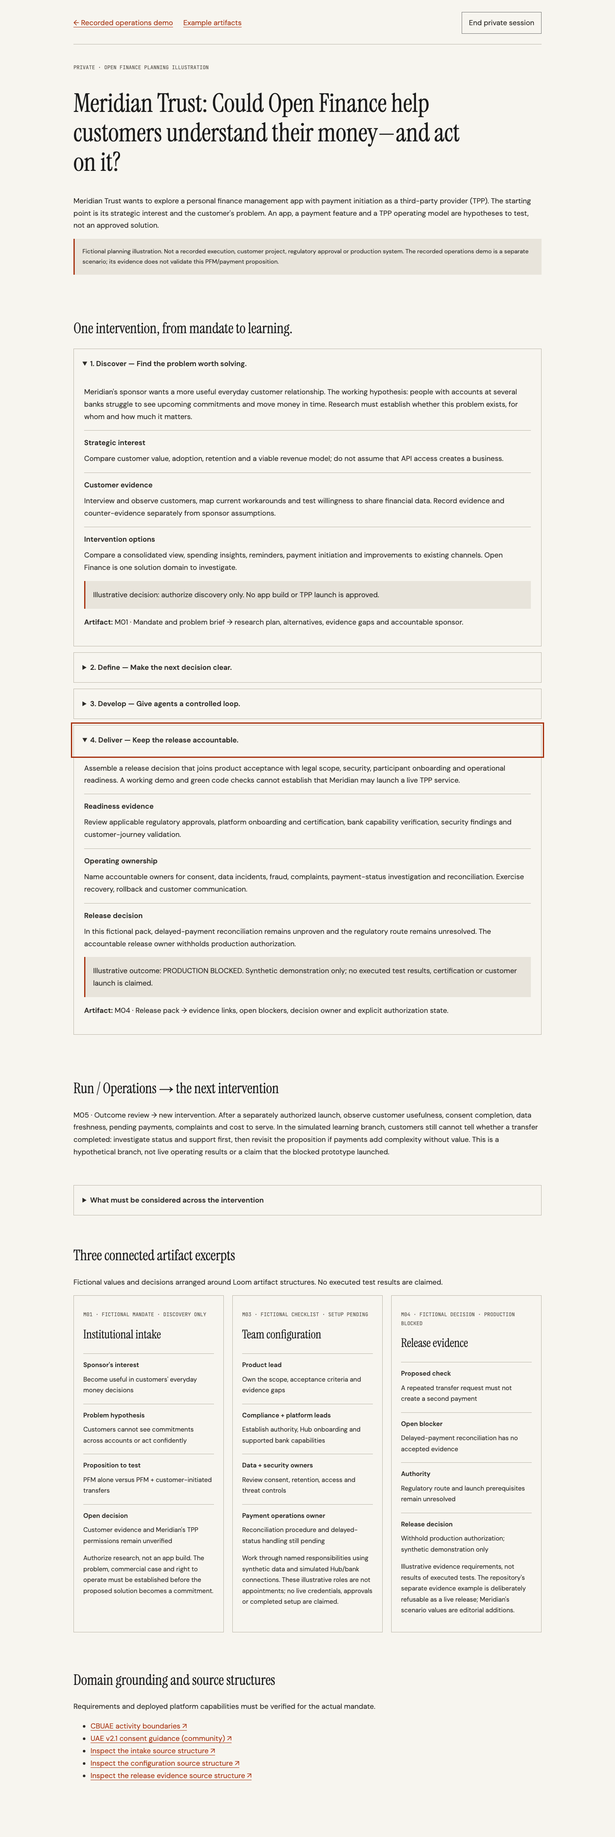
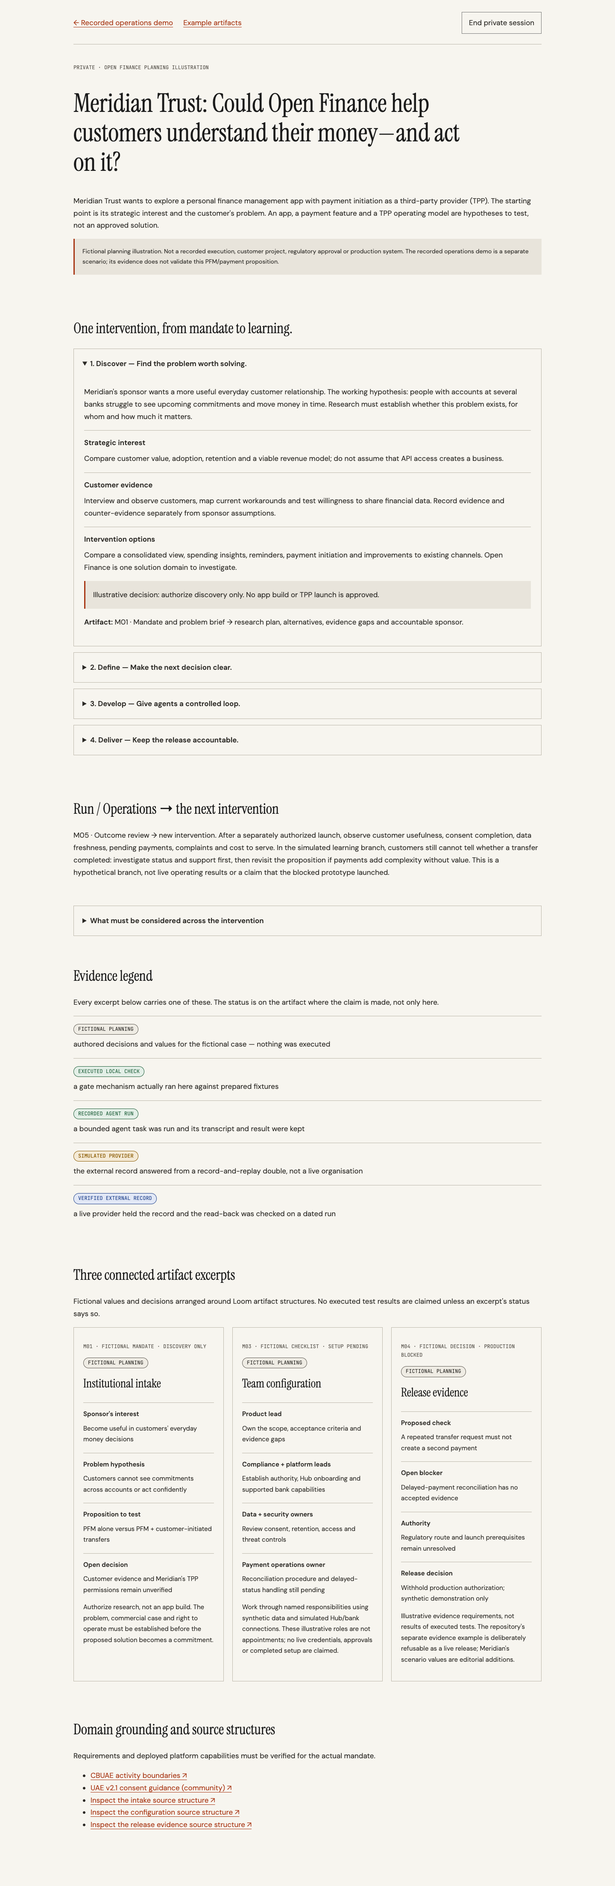
Regenerate package from ai-dlc 25be82e (#3)
scripts/regenerate.mjs --ai-dlc ../ai-dlc --apply, over base package 4bc4593 with the
unchanged private scenario. sync-check reported the generator had drifted: ai-dlc #74 (the
founder demo) taught customer-demo-illustration.mjs the five-status evidence legend
(fictional planning · executed local check · recorded agent run · simulated provider ·
verified external record) and an optional presenter block. The regenerated
illustration.html and illustration.css carry the legend; the scenario itself is unchanged.

release.json: generator_sha256 2ff0cdff…, illustration.ai_dlc_commit 25be82e,
recorded_evidence_unchanged true, source_commit 36ea325 (the recorded-evidence base; it
does not move). sync-check — OK after regeneration.

Gateway verified locally on :8090 with a throwaway DEMO_PASSWORD and DEMO_HOSTS set in the
shell only: anonymous /, /index.html, /illustration.html and every dist/evidence/* path
303 → /login with Cache-Control: no-store and X-Robots-Tag: noindex; login without an
Origin header 403, wrong password 401, right password 303 with an HttpOnly Secure
SameSite=Strict __Host-loom cookie; authenticated /index.html, /illustration.html and
/evidence/bundle.json 200; private-source/ 404 when authenticated (303 to login when not);
unknown Host 403; logout clears the session. Captures at 1440 and 390 in
private-source/review/ (no horizontal overflow, PRODUCTION BLOCKED text present, legend
rendered). server.mjs and the Dockerfile untouched.

Changed region(s): [[0.125, 0.0312, 0.875, 0.9037], [0.125, 0.9037, 0.4688, 0.966]]

diff --git a/dist/illustration.html b/dist/illustration.html
@@ -1,1 +1,1 @@
-<!doctype html><html lang="en"><head><meta charset="utf-8"><meta name="viewport" content="width=device-width,initial-scale=1"><meta name="robots" content="noindex,nofollow,noarchive"><title>Meridian Trust — private Loom illustration</title><link rel="stylesheet" href="/fonts/fonts.css"><link rel="stylesheet" href="/illustration.css"></head><body><main class="illustration"><nav aria-label="Demo sections"><a href="/">← Recorded operations demo</a><a href="#artifacts">Example artifacts</a><form method="post" action="/logout"><button>End private session</button></form></nav><header><p class="eyebrow">Private · Open Finance planning illustration</p><h1>Meridian Trust: Could Open Finance help customers understand their money—and act on it?</h1><p>Meridian Trust wants to explore a personal finance management app with payment initiation as a third-party provider (TPP). The starting point is its strategic interest and the customer&#39;s problem. An app, a payment feature and a TPP operating model are hypotheses to test, not an approved solution.</p><p class="boundary">Fictional planning illustration. Not a recorded execution, customer project, regulatory approval or production system. The recorded operations demo is a separate scenario; its evidence does not validate this PFM/payment proposition.</p></header><section aria-labelledby="cycle"><h2 id="cycle">One intervention, from mandate to learning.</h2><details open><summary>1. Discover — Find the problem worth solving.</summary><div class="detail"><p>Meridian&#39;s sponsor wants a more useful everyday customer relationship. The working hypothesis: people with accounts at several banks struggle to see upcoming commitments and move money in time. Research must establish whether this problem exists, for whom and how much it matters.</p><dl><div><dt>Strategic interest</dt><dd>Compare customer value, adoption, retention and a viable revenue model; do not assume that API access creates a business.</dd></div><div><dt>Customer evidence</dt><dd>Interview and observe customers, map current workarounds and test willingness to share financial data. Record evidence and counter-evidence separately from sponsor assumptions.</dd></div><div><dt>Intervention options</dt><dd>Compare a consolidated view, spending insights, reminders, payment initiation and improvements to existing channels. Open Finance is one solution domain to investigate.</dd></div></dl><p class="decision">Illustrative decision: authorize discovery only. No app build or TPP launch is approved.</p><p><strong>Artifact:</strong> M01 · Mandate and problem brief → research plan, alternatives, evidence gaps and accountable sponsor.</p></div></details><details><summary>2. Define — Make the next decision clear.</summary><div class="detail"><p>Use a disposable prototype to test whether seeing finances and initiating a transfer belong in the same journey. Compare PFM alone with PFM plus customer-initiated payments; narrow the scope only when the customer, commercial and feasibility evidence supports it.</p><dl><div><dt>Proposition and economics</dt><dd>Test comprehension and usefulness. Model acquisition, consent completion, data refresh, platform charges and support costs; leave unverified prices and demand as open inputs.</dd></div><div><dt>TPP feasibility</dt><dd>Establish Meridian&#39;s legal entity, jurisdiction and existing permissions. Determine the applicable licensing or approval route, permitted activities, onboarding, certification and participating-bank coverage.</dd></div><div><dt>Bounded hypothesis</dt><dd>For the worked branch, explore an account overview and a customer-initiated domestic transfer. Defer automated sweeps, product recommendations and additional payment types pending separate assessment.</dd></div></dl><p class="decision">Illustrative decision: proceed to a synthetic prototype, with regulatory scope unresolved. Narrow, investigate or stop if the evidence does not support the proposition.</p><p><strong>Artifact:</strong> M02 · Reviewed discovery hand-off → prototype, business case, scope, risks, success measures and stop conditions.</p></div></details><details><summary>3. Develop — Give agents a controlled loop.</summary><div class="detail"><p>Turn the bounded proposition into reviewable increments: connect accounts, explain freshness and spending, then initiate a transfer with a clear outcome. The prototype uses synthetic accounts and a simulated API Hub and bank; it has no production connectivity.</p><dl><div><dt>Consent and data</dt><dd>Separate account-data permissions from payment authorization. Design revocation, expiry, minimum data access, freshness indicators, retention and deletion; review insight accuracy and misleading financial recommendations.</dd></div><div><dt>Payment journey</dt><dd>Model Meridian TPP → API Hub → bank, with the bank executing the payment. Include payee verification, customer authorization, repeated submissions, delayed responses and reconciliation.</dd></div><div><dt>Controlled implementation</dt><dd>Bind specifications to acceptance tests and accountable reviewers. Assess security, fraud, privacy and outsourced services; test rejected consent, stale data, unknown payment outcomes and support escalation.</dd></div></dl><p class="decision">Illustrative decision: do not treat a timeout as a failed payment or encourage an unchecked retry. Resolve the existing payment outcome first.</p><p><strong>Artifact:</strong> M03 · Delivery evidence → versioned contracts, synthetic test cases, reviewed changes and unresolved controls.</p></div></details><details><summary>4. Deliver — Keep the release accountable.</summary><div class="detail"><p>Assemble a release decision that joins product acceptance with legal scope, security, participant onboarding and operational readiness. A working demo and green code checks cannot establish that Meridian may launch a live TPP service.</p><dl><div><dt>Readiness evidence</dt><dd>Review applicable regulatory approvals, platform onboarding and certification, bank capability verification, security findings and customer-journey validation.</dd></div><div><dt>Operating ownership</dt><dd>Name accountable owners for consent, data incidents, fraud, complaints, payment-status investigation and reconciliation. Exercise recovery, rollback and customer communication.</dd></div><div><dt>Release decision</dt><dd>In this fictional pack, delayed-payment reconciliation remains unproven and the regulatory route remains unresolved. The accountable release owner withholds production authorization.</dd></div></dl><p class="decision">Illustrative outcome: PRODUCTION BLOCKED. Synthetic demonstration only; no executed test results, certification or customer launch is claimed.</p><p><strong>Artifact:</strong> M04 · Release pack → evidence links, open blockers, decision owner and explicit authorization state.</p></div></details></section><section><h2>Run / Operations → the next intervention</h2><p>M05 · Outcome review → new intervention. After a separately authorized launch, observe customer usefulness, consent completion, data freshness, pending payments, complaints and cost to serve. In the simulated learning branch, customers still cannot tell whether a transfer completed: investigate status and support first, then revisit the proposition if payments add complexity without value. This is a hypothetical branch, not live operating results or a claim that the blocked prototype launched.</p></section><details><summary>What must be considered across the intervention</summary><div class="detail"><dl><div><dt>Authority and responsibility</dt><dd>Confirm legal status, applicable permissions, governance, insurance and partner responsibilities. Assess the boundaries around financial advice and customer funds; the example assumes neither fund custody nor automatic authority to operate.</dd></div><div><dt>Customer value and economics</dt><dd>Validate the target segment, customer problem, revenue assumptions, costs and distribution. Set measurable outcomes and explicit reasons to stop before committing to a build.</dd></div><div><dt>Consent and information</dt><dd>Specify purposes, data permissions, consent management, withdrawal, freshness, categorization quality, privacy, retention and deletion. Confirm customer communications and accessibility needs.</dd></div><div><dt>Platform and payments</dt><dd>Verify deployed standards and bank capabilities. Plan Trust Framework registration, secure communication and credentials, Hub-mediated access, payee checks, payment status, duplicate prevention and reconciliation.</dd></div><div><dt>Assurance and launch</dt><dd>Establish threat and fraud controls, independent review, functional and customer-experience certification, security evidence and live-proving prerequisites appropriate to the approved scope.</dd></div><div><dt>Operations and learning</dt><dd>Define monitoring, incident and dispute handling, complaints, recovery, supplier responsibilities and change management. Feed customer outcomes and control failures back into the mandate.</dd></div></dl></div></details><section id="artifacts"><h2>Three connected artifact excerpts</h2><p>Fictional values and decisions arranged around Loom artifact structures. No executed test results are claimed.</p><div class="artifacts"><article><p class="eyebrow">M01 · Fictional mandate · discovery only</p><h3>Institutional intake</h3><dl><div><dt>Sponsor&#39;s interest</dt><dd>Become useful in customers&#39; everyday money decisions</dd></div><div><dt>Problem hypothesis</dt><dd>Customers cannot see commitments across accounts or act confidently</dd></div><div><dt>Proposition to test</dt><dd>PFM alone versus PFM + customer-initiated transfers</dd></div><div><dt>Open decision</dt><dd>Customer evidence and Meridian&#39;s TPP permissions remain unverified</dd></div></dl><p>Authorize research, not an app build. The problem, commercial case and right to operate must be established before the proposed solution becomes a commitment.</p></article><article><p class="eyebrow">M03 · Fictional checklist · setup pending</p><h3>Team configuration</h3><dl><div><dt>Product lead</dt><dd>Own the scope, acceptance criteria and evidence gaps</dd></div><div><dt>Compliance + platform leads</dt><dd>Establish authority, Hub onboarding and supported bank capabilities</dd></div><div><dt>Data + security owners</dt><dd>Review consent, retention, access and threat controls</dd></div><div><dt>Payment operations owner</dt><dd>Reconciliation procedure and delayed-status handling still pending</dd></div></dl><p>Work through named responsibilities using synthetic data and simulated Hub/bank connections. These illustrative roles are not appointments; no live credentials, approvals or completed setup are claimed.</p></article><article><p class="eyebrow">M04 · Fictional decision · production blocked</p><h3>Release evidence</h3><dl><div><dt>Proposed check</dt><dd>A repeated transfer request must not create a second payment</dd></div><div><dt>Open blocker</dt><dd>Delayed-payment reconciliation has no accepted evidence</dd></div><div><dt>Authority</dt><dd>Regulatory route and launch prerequisites remain unresolved</dd></div><div><dt>Release decision</dt><dd>Withhold production authorization; synthetic demonstration only</dd></div></dl><p>Illustrative evidence requirements, not results of executed tests. The repository&#39;s separate evidence example is deliberately refusable as a live release; Meridian&#39;s scenario values are editorial additions.</p></article></div></section><section><h2>Domain grounding and source structures</h2><p>Requirements and deployed platform capabilities must be verified for the actual mandate.</p><ul><li><a href="https://rulebook.centralbank.ae/en/rulebook/article-4-limitations-0" target="_blank" rel="noopener noreferrer">CBUAE activity boundaries ↗</a></li><li><a href="https://www.nebras-open-finance.com/tech/tpp-standards/v2.1/consent" target="_blank" rel="noopener noreferrer">UAE v2.1 consent guidance (community) ↗</a></li><li><a href="https://github.com/middleleap/ai-dlc/tree/063b42029066db2c0b0f44cbd9aa057894d7151d/plugins/middleleap-loom/skills/loom-adopt/harness/intake/handoff.md" target="_blank" rel="noopener noreferrer">Inspect the intake source structure ↗</a></li><li><a href="https://github.com/middleleap/ai-dlc/tree/063b42029066db2c0b0f44cbd9aa057894d7151d/plugins/middleleap-loom/skills/loom-adopt/harness/core/configuration-tasks.json" target="_blank" rel="noopener noreferrer">Inspect the configuration source structure ↗</a></li><li><a href="https://github.com/middleleap/ai-dlc/tree/063b42029066db2c0b0f44cbd9aa057894d7151d/plugins/middleleap-loom/skills/loom-adopt/harness/evidence-example/README.md" target="_blank" rel="noopener noreferrer">Inspect the release evidence source structure ↗</a></li></ul></section></main></body></html>
+<!doctype html><html lang="en"><head><meta charset="utf-8"><meta name="viewport" content="width=device-width,initial-scale=1"><meta name="robots" content="noindex,nofollow,noarchive"><title>Meridian Trust — private Loom illustration</title><link rel="stylesheet" href="/fonts/fonts.css"><link rel="stylesheet" href="/illustration.css"></head><body><main class="illustration"><nav aria-label="Demo sections"><a href="/">← Recorded operations demo</a><a href="#artifacts">Example artifacts</a><form method="post" action="/logout"><button>End private session</button></form></nav><header><p class="eyebrow">Private · Open Finance planning illustration</p><h1>Meridian Trust: Could Open Finance help customers understand their money—and act on it?</h1><p>Meridian Trust wants to explore a personal finance management app with payment initiation as a third-party provider (TPP). The starting point is its strategic interest and the customer&#39;s problem. An app, a payment feature and a TPP operating model are hypotheses to test, not an approved solution.</p><p class="boundary">Fictional planning illustration. Not a recorded execution, customer project, regulatory approval or production system. The recorded operations demo is a separate scenario; its evidence does not validate this PFM/payment proposition.</p></header><section aria-labelledby="cycle"><h2 id="cycle">One intervention, from mandate to learning.</h2><details open><summary>1. Discover — Find the problem worth solving.</summary><div class="detail"><p>Meridian&#39;s sponsor wants a more useful everyday customer relationship. The working hypothesis: people with accounts at several banks struggle to see upcoming commitments and move money in time. Research must establish whether this problem exists, for whom and how much it matters.</p><dl><div><dt>Strategic interest</dt><dd>Compare customer value, adoption, retention and a viable revenue model; do not assume that API access creates a business.</dd></div><div><dt>Customer evidence</dt><dd>Interview and observe customers, map current workarounds and test willingness to share financial data. Record evidence and counter-evidence separately from sponsor assumptions.</dd></div><div><dt>Intervention options</dt><dd>Compare a consolidated view, spending insights, reminders, payment initiation and improvements to existing channels. Open Finance is one solution domain to investigate.</dd></div></dl><p class="decision">Illustrative decision: authorize discovery only. No app build or TPP launch is approved.</p><p><strong>Artifact:</strong> M01 · Mandate and problem brief → research plan, alternatives, evidence gaps and accountable sponsor.</p></div></details><details><summary>2. Define — Make the next decision clear.</summary><div class="detail"><p>Use a disposable prototype to test whether seeing finances and initiating a transfer belong in the same journey. Compare PFM alone with PFM plus customer-initiated payments; narrow the scope only when the customer, commercial and feasibility evidence supports it.</p><dl><div><dt>Proposition and economics</dt><dd>Test comprehension and usefulness. Model acquisition, consent completion, data refresh, platform charges and support costs; leave unverified prices and demand as open inputs.</dd></div><div><dt>TPP feasibility</dt><dd>Establish Meridian&#39;s legal entity, jurisdiction and existing permissions. Determine the applicable licensing or approval route, permitted activities, onboarding, certification and participating-bank coverage.</dd></div><div><dt>Bounded hypothesis</dt><dd>For the worked branch, explore an account overview and a customer-initiated domestic transfer. Defer automated sweeps, product recommendations and additional payment types pending separate assessment.</dd></div></dl><p class="decision">Illustrative decision: proceed to a synthetic prototype, with regulatory scope unresolved. Narrow, investigate or stop if the evidence does not support the proposition.</p><p><strong>Artifact:</strong> M02 · Reviewed discovery hand-off → prototype, business case, scope, risks, success measures and stop conditions.</p></div></details><details><summary>3. Develop — Give agents a controlled loop.</summary><div class="detail"><p>Turn the bounded proposition into reviewable increments: connect accounts, explain freshness and spending, then initiate a transfer with a clear outcome. The prototype uses synthetic accounts and a simulated API Hub and bank; it has no production connectivity.</p><dl><div><dt>Consent and data</dt><dd>Separate account-data permissions from payment authorization. Design revocation, expiry, minimum data access, freshness indicators, retention and deletion; review insight accuracy and misleading financial recommendations.</dd></div><div><dt>Payment journey</dt><dd>Model Meridian TPP → API Hub → bank, with the bank executing the payment. Include payee verification, customer authorization, repeated submissions, delayed responses and reconciliation.</dd></div><div><dt>Controlled implementation</dt><dd>Bind specifications to acceptance tests and accountable reviewers. Assess security, fraud, privacy and outsourced services; test rejected consent, stale data, unknown payment outcomes and support escalation.</dd></div></dl><p class="decision">Illustrative decision: do not treat a timeout as a failed payment or encourage an unchecked retry. Resolve the existing payment outcome first.</p><p><strong>Artifact:</strong> M03 · Delivery evidence → versioned contracts, synthetic test cases, reviewed changes and unresolved controls.</p></div></details><details><summary>4. Deliver — Keep the release accountable.</summary><div class="detail"><p>Assemble a release decision that joins product acceptance with legal scope, security, participant onboarding and operational readiness. A working demo and green code checks cannot establish that Meridian may launch a live TPP service.</p><dl><div><dt>Readiness evidence</dt><dd>Review applicable regulatory approvals, platform onboarding and certification, bank capability verification, security findings and customer-journey validation.</dd></div><div><dt>Operating ownership</dt><dd>Name accountable owners for consent, data incidents, fraud, complaints, payment-status investigation and reconciliation. Exercise recovery, rollback and customer communication.</dd></div><div><dt>Release decision</dt><dd>In this fictional pack, delayed-payment reconciliation remains unproven and the regulatory route remains unresolved. The accountable release owner withholds production authorization.</dd></div></dl><p class="decision">Illustrative outcome: PRODUCTION BLOCKED. Synthetic demonstration only; no executed test results, certification or customer launch is claimed.</p><p><strong>Artifact:</strong> M04 · Release pack → evidence links, open blockers, decision owner and explicit authorization state.</p></div></details></section><section><h2>Run / Operations → the next intervention</h2><p>M05 · Outcome review → new intervention. After a separately authorized launch, observe customer usefulness, consent completion, data freshness, pending payments, complaints and cost to serve. In the simulated learning branch, customers still cannot tell whether a transfer completed: investigate status and support first, then revisit the proposition if payments add complexity without value. This is a hypothetical branch, not live operating results or a claim that the blocked prototype launched.</p></section><details><summary>What must be considered across the intervention</summary><div class="detail"><dl><div><dt>Authority and responsibility</dt><dd>Confirm legal status, applicable permissions, governance, insurance and partner responsibilities. Assess the boundaries around financial advice and customer funds; the example assumes neither fund custody nor automatic authority to operate.</dd></div><div><dt>Customer value and economics</dt><dd>Validate the target segment, customer problem, revenue assumptions, costs and distribution. Set measurable outcomes and explicit reasons to stop before committing to a build.</dd></div><div><dt>Consent and information</dt><dd>Specify purposes, data permissions, consent management, withdrawal, freshness, categorization quality, privacy, retention and deletion. Confirm customer communications and accessibility needs.</dd></div><div><dt>Platform and payments</dt><dd>Verify deployed standards and bank capabilities. Plan Trust Framework registration, secure communication and credentials, Hub-mediated access, payee checks, payment status, duplicate prevention and reconciliation.</dd></div><div><dt>Assurance and launch</dt><dd>Establish threat and fraud controls, independent review, functional and customer-experience certification, security evidence and live-proving prerequisites appropriate to the approved scope.</dd></div><div><dt>Operations and learning</dt><dd>Define monitoring, incident and dispute handling, complaints, recovery, supplier responsibilities and change management. Feed customer outcomes and control failures back into the mandate.</dd></div></dl></div></details><section id="legend" aria-labelledby="legend-h"><h2 id="legend-h">Evidence legend</h2><p>Every excerpt below carries one of these. The status is on the artifact where the claim is made, not only here.</p><dl class="legend"><div><dt><span class="chip" data-status="fictional planning">fictional planning</span></dt><dd>authored decisions and values for the fictional case — nothing was executed</dd></div><div><dt><span class="chip" data-status="executed local check">executed local check</span></dt><dd>a gate mechanism actually ran here against prepared fixtures</dd></div><div><dt><span class="chip" data-status="recorded agent run">recorded agent run</span></dt><dd>a bounded agent task was run and its transcript and result were kept</dd></div><div><dt><span class="chip" data-status="simulated provider">simulated provider</span></dt><dd>the external record answered from a record-and-replay double, not a live organisation</dd></div><div><dt><span class="chip" data-status="verified external record">verified external record</span></dt><dd>a live provider held the record and the read-back was checked on a dated run</dd></div></dl></section><section id="artifacts"><h2>Three connected artifact excerpts</h2><p>Fictional values and decisions arranged around Loom artifact structures. No executed test results are claimed unless an excerpt's status says so.</p><div class="artifacts"><article><p class="eyebrow">M01 · Fictional mandate · discovery only</p><p><span class="chip" data-status="fictional planning">fictional planning</span></p><h3>Institutional intake</h3><dl><div><dt>Sponsor&#39;s interest</dt><dd>Become useful in customers&#39; everyday money decisions</dd></div><div><dt>Problem hypothesis</dt><dd>Customers cannot see commitments across accounts or act confidently</dd></div><div><dt>Proposition to test</dt><dd>PFM alone versus PFM + customer-initiated transfers</dd></div><div><dt>Open decision</dt><dd>Customer evidence and Meridian&#39;s TPP permissions remain unverified</dd></div></dl><p>Authorize research, not an app build. The problem, commercial case and right to operate must be established before the proposed solution becomes a commitment.</p></article><article><p class="eyebrow">M03 · Fictional checklist · setup pending</p><p><span class="chip" data-status="fictional planning">fictional planning</span></p><h3>Team configuration</h3><dl><div><dt>Product lead</dt><dd>Own the scope, acceptance criteria and evidence gaps</dd></div><div><dt>Compliance + platform leads</dt><dd>Establish authority, Hub onboarding and supported bank capabilities</dd></div><div><dt>Data + security owners</dt><dd>Review consent, retention, access and threat controls</dd></div><div><dt>Payment operations owner</dt><dd>Reconciliation procedure and delayed-status handling still pending</dd></div></dl><p>Work through named responsibilities using synthetic data and simulated Hub/bank connections. These illustrative roles are not appointments; no live credentials, approvals or completed setup are claimed.</p></article><article><p class="eyebrow">M04 · Fictional decision · production blocked</p><p><span class="chip" data-status="fictional planning">fictional planning</span></p><h3>Release evidence</h3><dl><div><dt>Proposed check</dt><dd>A repeated transfer request must not create a second payment</dd></div><div><dt>Open blocker</dt><dd>Delayed-payment reconciliation has no accepted evidence</dd></div><div><dt>Authority</dt><dd>Regulatory route and launch prerequisites remain unresolved</dd></div><div><dt>Release decision</dt><dd>Withhold production authorization; synthetic demonstration only</dd></div></dl><p>Illustrative evidence requirements, not results of executed tests. The repository&#39;s separate evidence example is deliberately refusable as a live release; Meridian&#39;s scenario values are editorial additions.</p></article></div></section><section><h2>Domain grounding and source structures</h2><p>Requirements and deployed platform capabilities must be verified for the actual mandate.</p><ul><li><a href="https://rulebook.centralbank.ae/en/rulebook/article-4-limitations-0" target="_blank" rel="noopener noreferrer">CBUAE activity boundaries ↗</a></li><li><a href="https://www.nebras-open-finance.com/tech/tpp-standards/v2.1/consent" target="_blank" rel="noopener noreferrer">UAE v2.1 consent guidance (community) ↗</a></li><li><a href="https://github.com/middleleap/ai-dlc/tree/063b42029066db2c0b0f44cbd9aa057894d7151d/plugins/middleleap-loom/skills/loom-adopt/harness/intake/handoff.md" target="_blank" rel="noopener noreferrer">Inspect the intake source structure ↗</a></li><li><a href="https://github.com/middleleap/ai-dlc/tree/063b42029066db2c0b0f44cbd9aa057894d7151d/plugins/middleleap-loom/skills/loom-adopt/harness/core/configuration-tasks.json" target="_blank" rel="noopener noreferrer">Inspect the configuration source structure ↗</a></li><li><a href="https://github.com/middleleap/ai-dlc/tree/063b42029066db2c0b0f44cbd9aa057894d7151d/plugins/middleleap-loom/skills/loom-adopt/harness/evidence-example/README.md" target="_blank" rel="noopener noreferrer">Inspect the release evidence source structure ↗</a></li></ul></section></main></body></html>

diff --git a/dist/illustration.css b/dist/illustration.css
@@ -1,1 +1,1 @@
-*{box-sizing:border-box}body{margin:0;background:#f7f5ef;color:#2b2925;font:17px/1.7 'DM Sans',sans-serif}.illustration{max-width:1160px;margin:auto;padding:28px 32px 80px}nav{display:flex;gap:24px;align-items:center;flex-wrap:wrap;border-bottom:1px solid #bcb7aa;padding-bottom:24px}nav form{margin-left:auto}a{color:#a83614;text-underline-offset:4px}button{font:inherit;padding:10px 16px;background:transparent;border:1px solid #777;color:inherit;cursor:pointer}h1,h2,h3{font-family:'Instrument Serif',Georgia,serif;font-weight:400;line-height:1.15;color:#1b1b1b}h1{font-size:clamp(36px,5vw,60px);max-width:950px}h2{font-size:34px}h3{font-size:28px}header,section{padding:32px 0}.eyebrow{font:12px/1.7 'JetBrains Mono',monospace;text-transform:uppercase;color:#5f5b54}.boundary,.decision{border-left:3px solid #a83614;padding:18px;background:#e8e4db}.boundary{font-size:14px}details{border:1px solid #bcb7aa;margin:14px 0}summary{padding:20px;cursor:pointer;font-weight:600}.detail{padding:0 24px 24px}dl{display:grid;gap:18px}dl>div{border-top:1px solid #bcb7aa;padding-top:14px}dt{font-weight:600}dd{margin:8px 0 0}.artifacts{display:grid;grid-template-columns:repeat(3,minmax(0,1fr));gap:20px}.artifacts article{border:1px solid #bcb7aa;padding:22px;font-size:15px}.artifacts h3{margin-top:20px}a:focus-visible,button:focus-visible,summary:focus-visible{outline:3px solid #a83614;outline-offset:4px}@media(max-width:760px){.illustration{padding:20px}.artifacts{grid-template-columns:1fr}nav form{margin-left:0}.detail{padding:0 18px 18px}summary{padding:18px}}
+*{box-sizing:border-box}body{margin:0;background:#f7f5ef;color:#2b2925;font:17px/1.7 'DM Sans',sans-serif}.illustration{max-width:1160px;margin:auto;padding:28px 32px 80px}nav{display:flex;gap:24px;align-items:center;flex-wrap:wrap;border-bottom:1px solid #bcb7aa;padding-bottom:24px}nav form{margin-left:auto}a{color:#a83614;text-underline-offset:4px}button{font:inherit;padding:10px 16px;background:transparent;border:1px solid #777;color:inherit;cursor:pointer}h1,h2,h3{font-family:'Instrument Serif',Georgia,serif;font-weight:400;line-height:1.15;color:#1b1b1b}h1{font-size:clamp(36px,5vw,60px);max-width:950px}h2{font-size:34px}h3{font-size:28px}header,section{padding:32px 0}.eyebrow{font:12px/1.7 'JetBrains Mono',monospace;text-transform:uppercase;color:#5f5b54}.boundary,.decision{border-left:3px solid #a83614;padding:18px;background:#e8e4db}.boundary{font-size:14px}details{border:1px solid #bcb7aa;margin:14px 0}summary{padding:20px;cursor:pointer;font-weight:600}.detail{padding:0 24px 24px}dl{display:grid;gap:18px}dl>div{border-top:1px solid #bcb7aa;padding-top:14px}dt{font-weight:600}dd{margin:8px 0 0}.artifacts{display:grid;grid-template-columns:repeat(3,minmax(0,1fr));gap:20px}.artifacts article{border:1px solid #bcb7aa;padding:22px;font-size:15px}.artifacts h3{margin-top:20px}.chip{display:inline-block;font:12px/1.6 'JetBrains Mono',monospace;text-transform:uppercase;padding:2px 10px;border:1px solid #5f5b54;border-radius:999px;color:#2b2925;background:#efece4}.chip[data-status='executed local check'],.chip[data-status='recorded agent run']{border-color:#1f5f3a;color:#1f5f3a;background:#e3efe7}.chip[data-status='simulated provider']{border-color:#8a5a00;color:#8a5a00;background:#f4ead6}.chip[data-status='verified external record']{border-color:#1d3f8a;color:#1d3f8a;background:#e2e8f6}.legend dt{font-weight:400}.presenter .roles{display:grid;grid-template-columns:repeat(3,minmax(0,1fr));gap:20px;margin-top:20px}.presenter article{border:1px solid #bcb7aa;padding:22px;font-size:15px}.presenter article h3{margin-top:0}a:focus-visible,button:focus-visible,summary:focus-visible{outline:3px solid #a83614;outline-offset:4px}@media(max-width:760px){.illustration{padding:20px}.artifacts,.presenter .roles{grid-template-columns:1fr}nav form{margin-left:0}.detail{padding:0 18px 18px}summary{padding:18px}}
